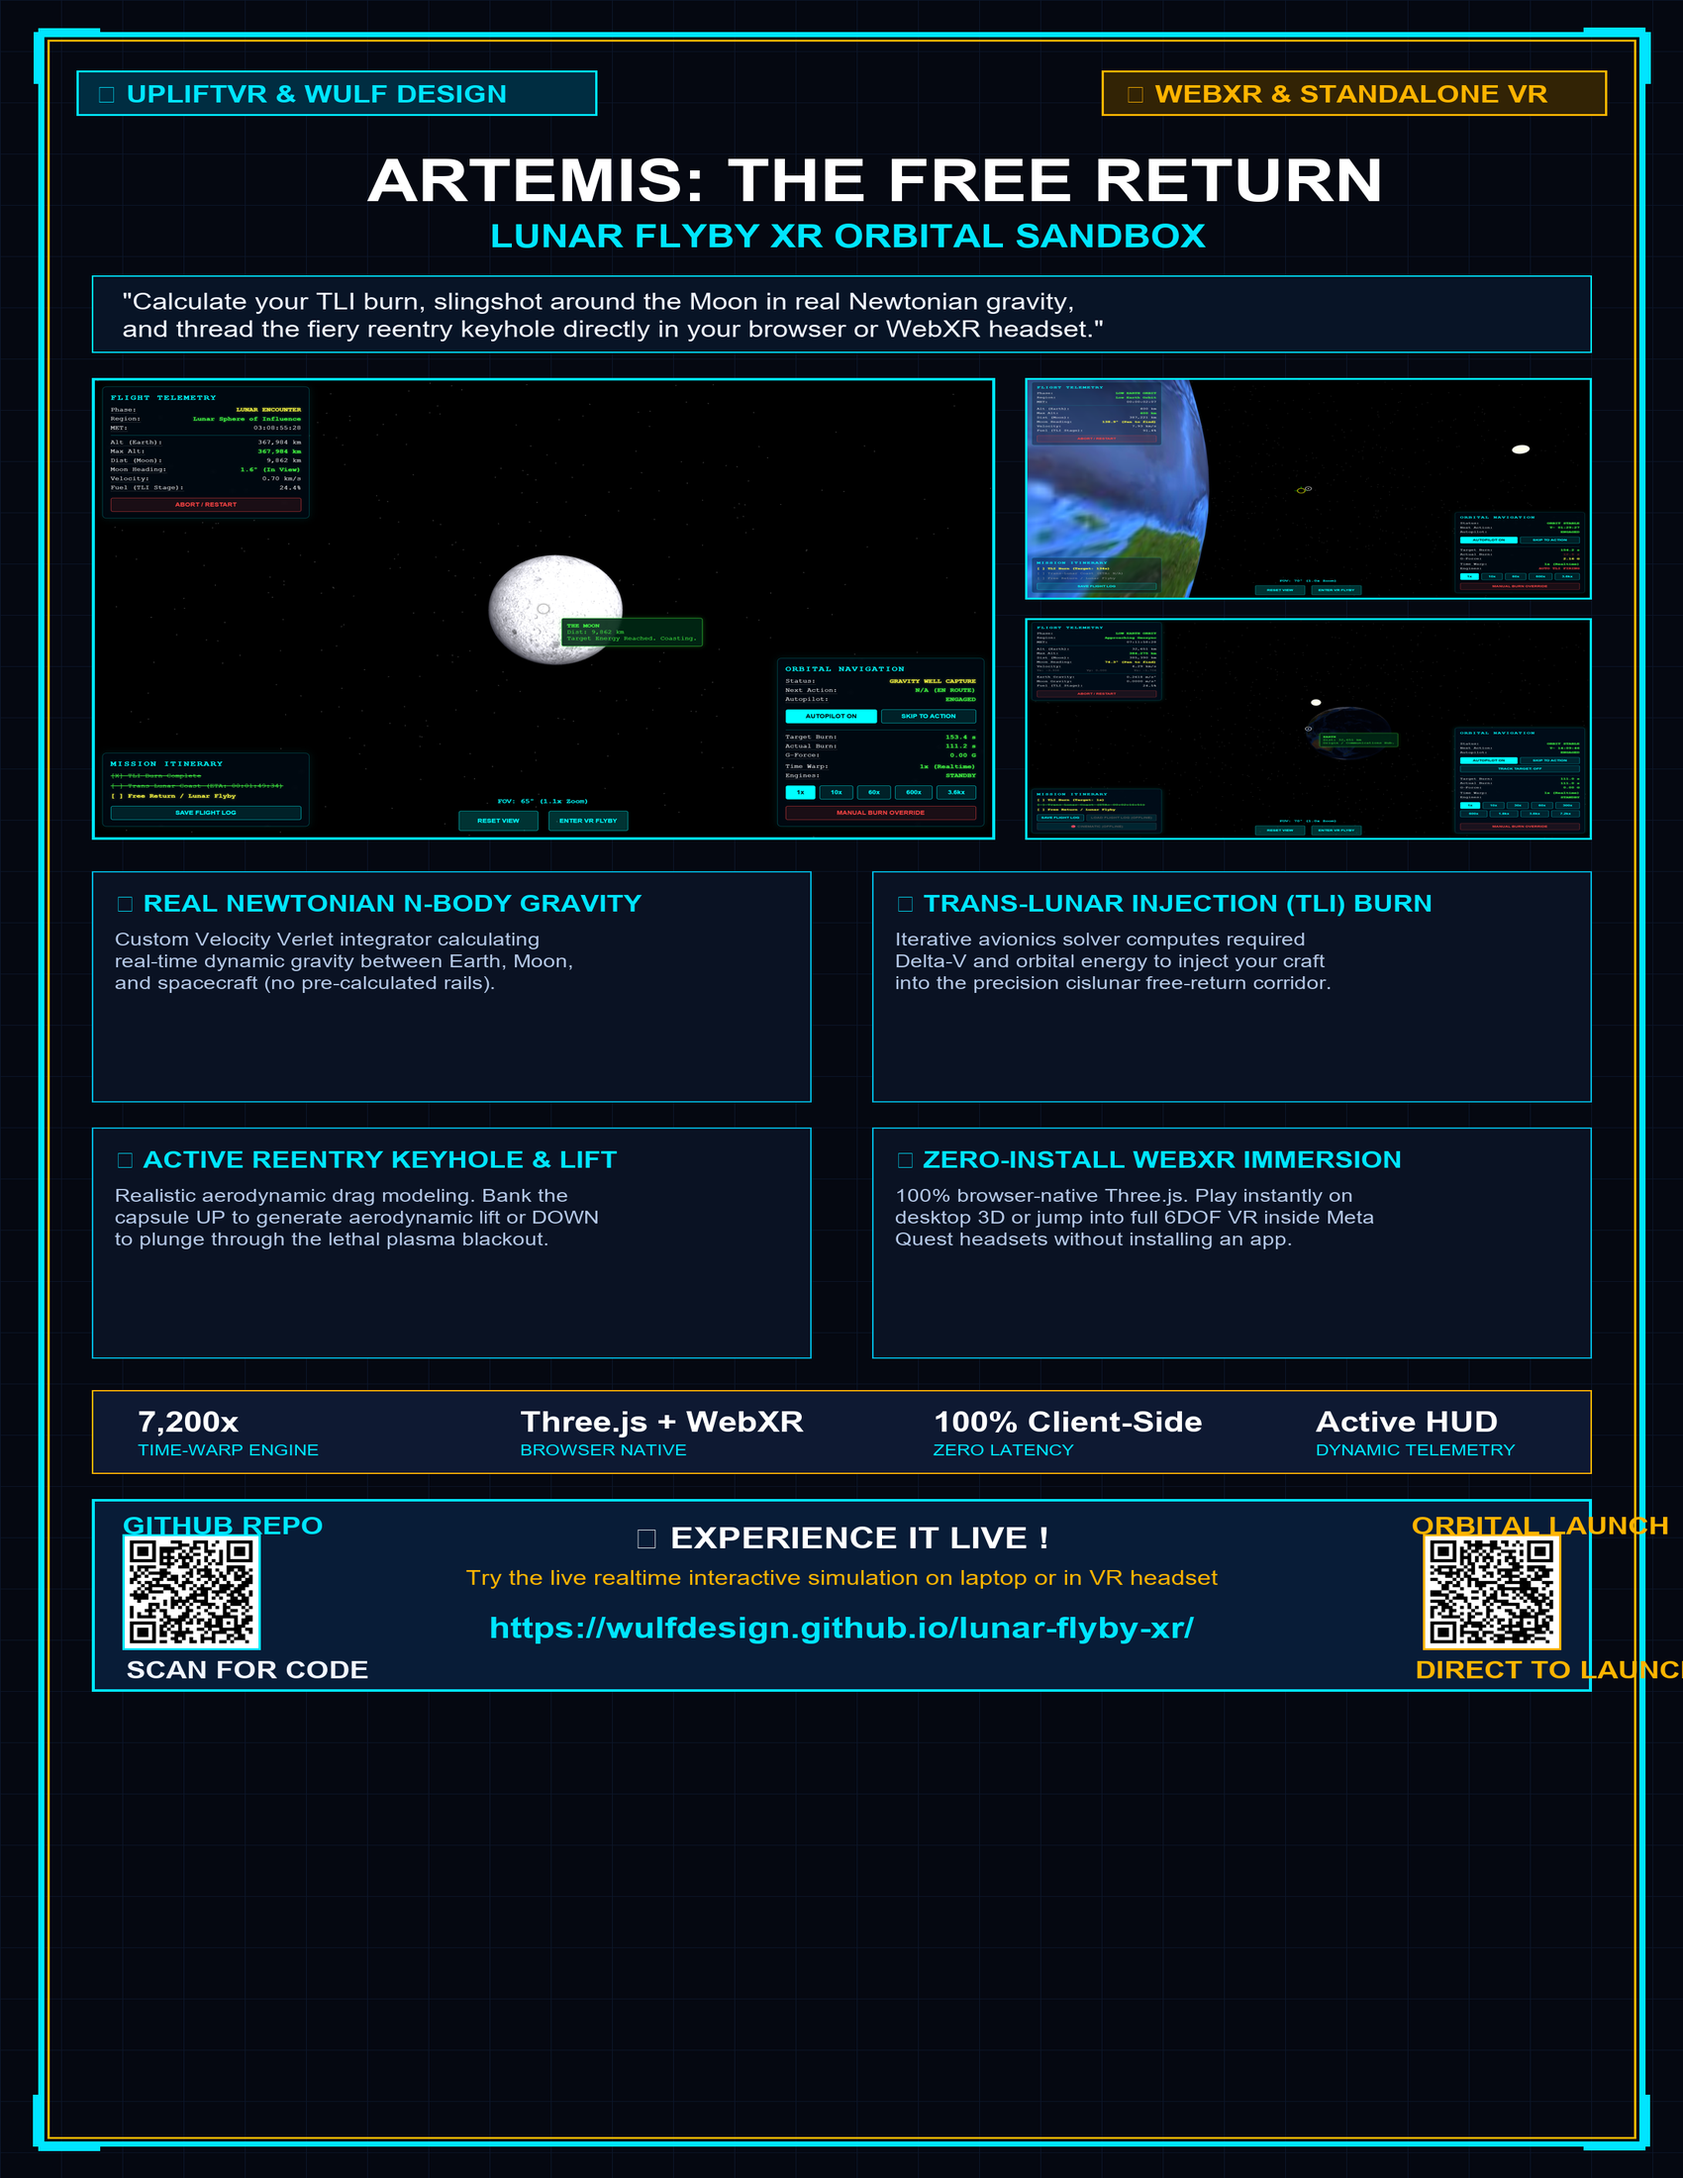
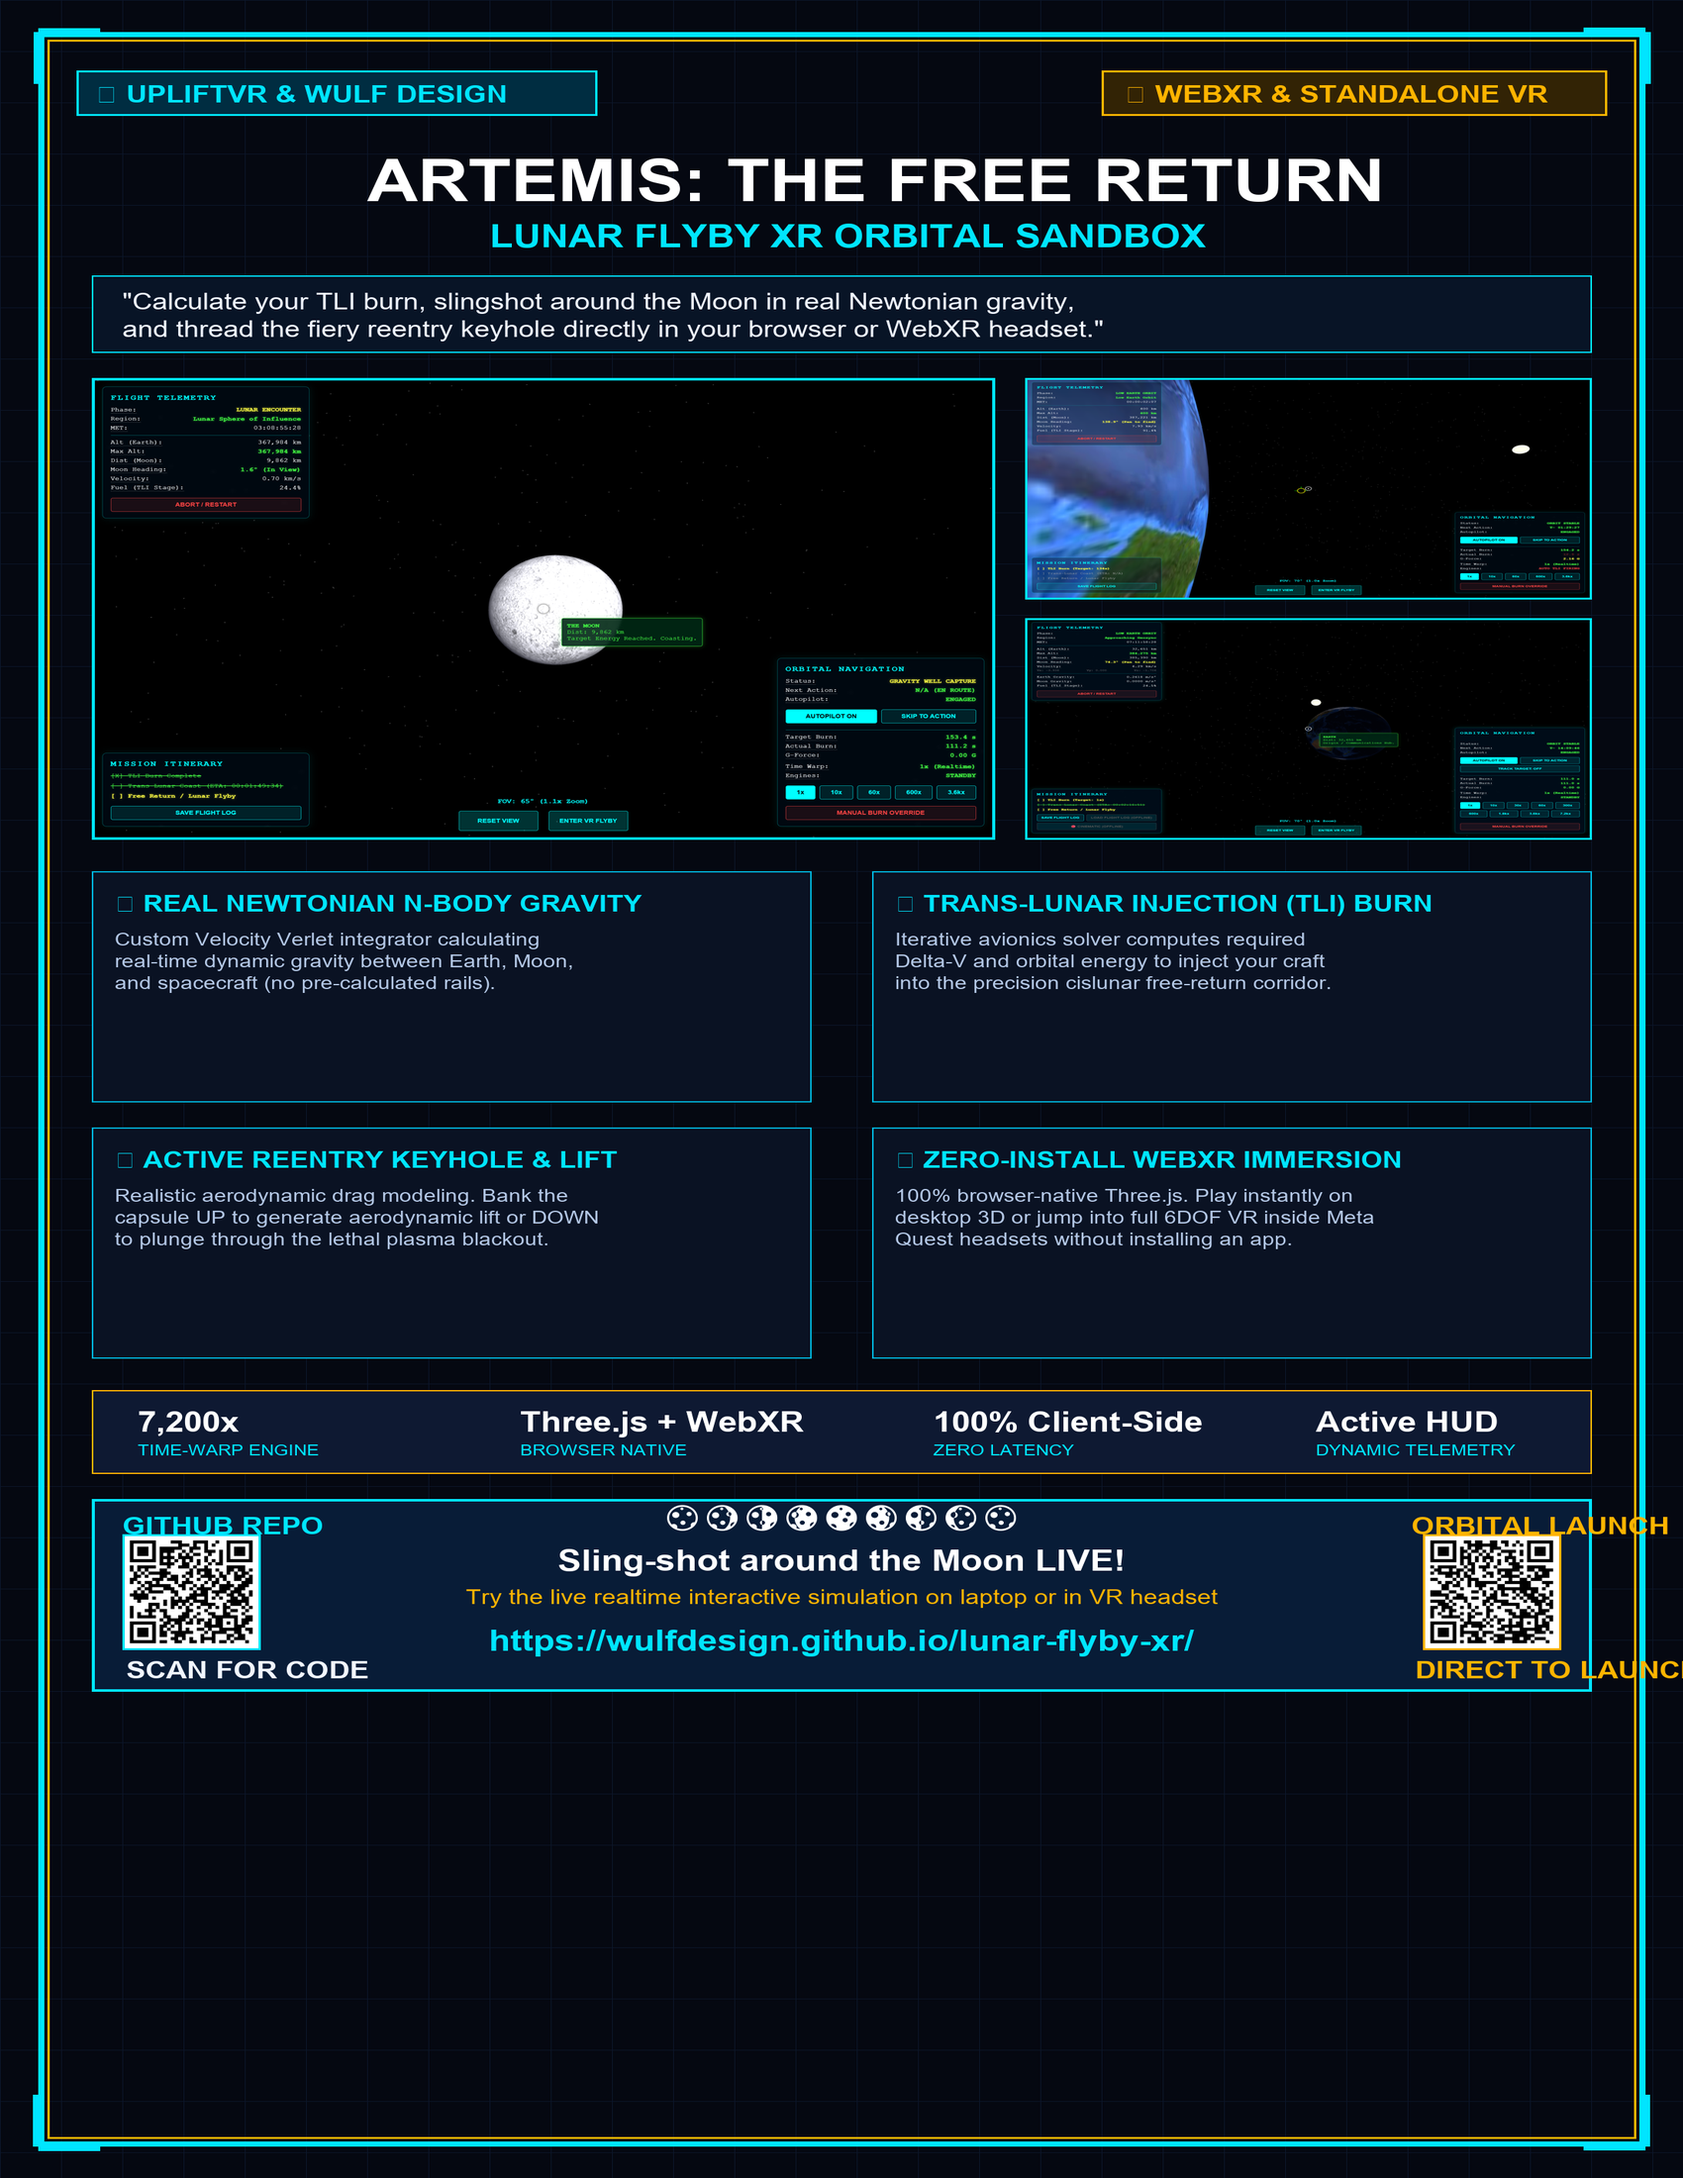
copy: Update CTA title to moon phases cycle and 'Sling-shot around the Moon LIVE!'

Changed region(s): [[0.2806, 0.68, 0.7171, 0.7727]]

diff --git a/print/poster_11x17.html b/print/poster_11x17.html
@@ -456,7 +456,8 @@
 
                 <!-- Center: Experience It Live CTA -->
                 <div class="cta-center">
-                    <h2>🎮 EXPERIENCE IT LIVE !</h2>
+                    <div class="moon-phases" style="font-size: 1.25rem; letter-spacing: 4px; margin-bottom: 2px;">🌕🌖🌗🌘🌑🌒🌓🌔🌕</div>
+                    <h2>Sling-shot around the Moon LIVE!</h2>
                     <p>Try the live realtime interactive simulation on laptop or in VR headset</p>
                     <div class="cta-url">https://wulfdesign.github.io/lunar-flyby-xr/</div>
                 </div>

diff --git a/generate_lunar_poster.py b/generate_lunar_poster.py
@@ -166,19 +166,28 @@ def create_poster():
     draw.text((w - 350, 2585), "DIRECT TO LAUNCH", font=font_qr_sub, fill=(255, 180, 0))
 
     # Center Aligned Text
-    cta_title = "🎮 EXPERIENCE IT LIVE !"
+    try:
+        font_moon = ImageFont.truetype('seguiemj.ttf', 38)
+    except:
+        font_moon = font_cta
+
+    moon_phases = "🌕🌖🌗🌘🌑🌒🌓🌔🌕"
+    cta_title = "Sling-shot around the Moon LIVE!"
     cta_sub1 = "Try the live realtime interactive simulation on laptop or in VR headset"
     cta_url = "https://wulfdesign.github.io/lunar-flyby-xr/"
 
     # Calculate center bounding boxes
+    bbox_m = draw.textbbox((0, 0), moon_phases, font=font_moon)
+    draw.text((w // 2 - (bbox_m[2] - bbox_m[0]) // 2, 2355), moon_phases, font=font_moon, fill=(255, 255, 255))
+
     bbox_t = draw.textbbox((0, 0), cta_title, font=font_cta)
-    draw.text((w // 2 - (bbox_t[2] - bbox_t[0]) // 2, 2375), cta_title, font=font_cta, fill=(255, 255, 255))
+    draw.text((w // 2 - (bbox_t[2] - bbox_t[0]) // 2, 2410), cta_title, font=font_cta, fill=(255, 255, 255))
 
     bbox_s = draw.textbbox((0, 0), cta_sub1, font=font_cta_sub)
-    draw.text((w // 2 - (bbox_s[2] - bbox_s[0]) // 2, 2445), cta_sub1, font=font_cta_sub, fill=(255, 180, 0))
+    draw.text((w // 2 - (bbox_s[2] - bbox_s[0]) // 2, 2475), cta_sub1, font=font_cta_sub, fill=(255, 180, 0))
 
     bbox_u = draw.textbbox((0, 0), cta_url, font=font_cta)
-    draw.text((w // 2 - (bbox_u[2] - bbox_u[0]) // 2, 2515), cta_url, font=font_cta, fill=(0, 229, 255))
+    draw.text((w // 2 - (bbox_u[2] - bbox_u[0]) // 2, 2535), cta_url, font=font_cta, fill=(0, 229, 255))
 
     # Save output
     out_dir = os.path.join(script_dir, 'print')
